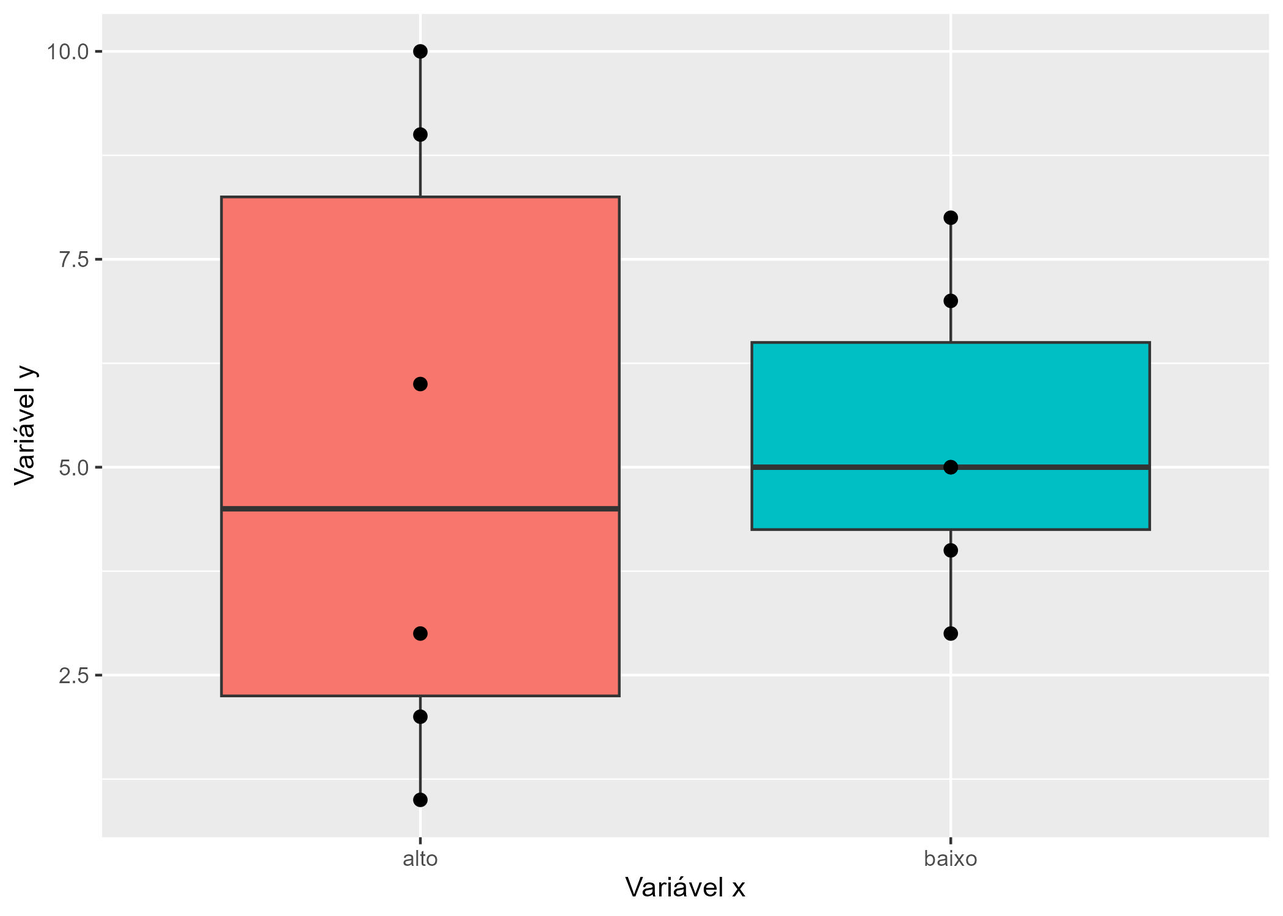
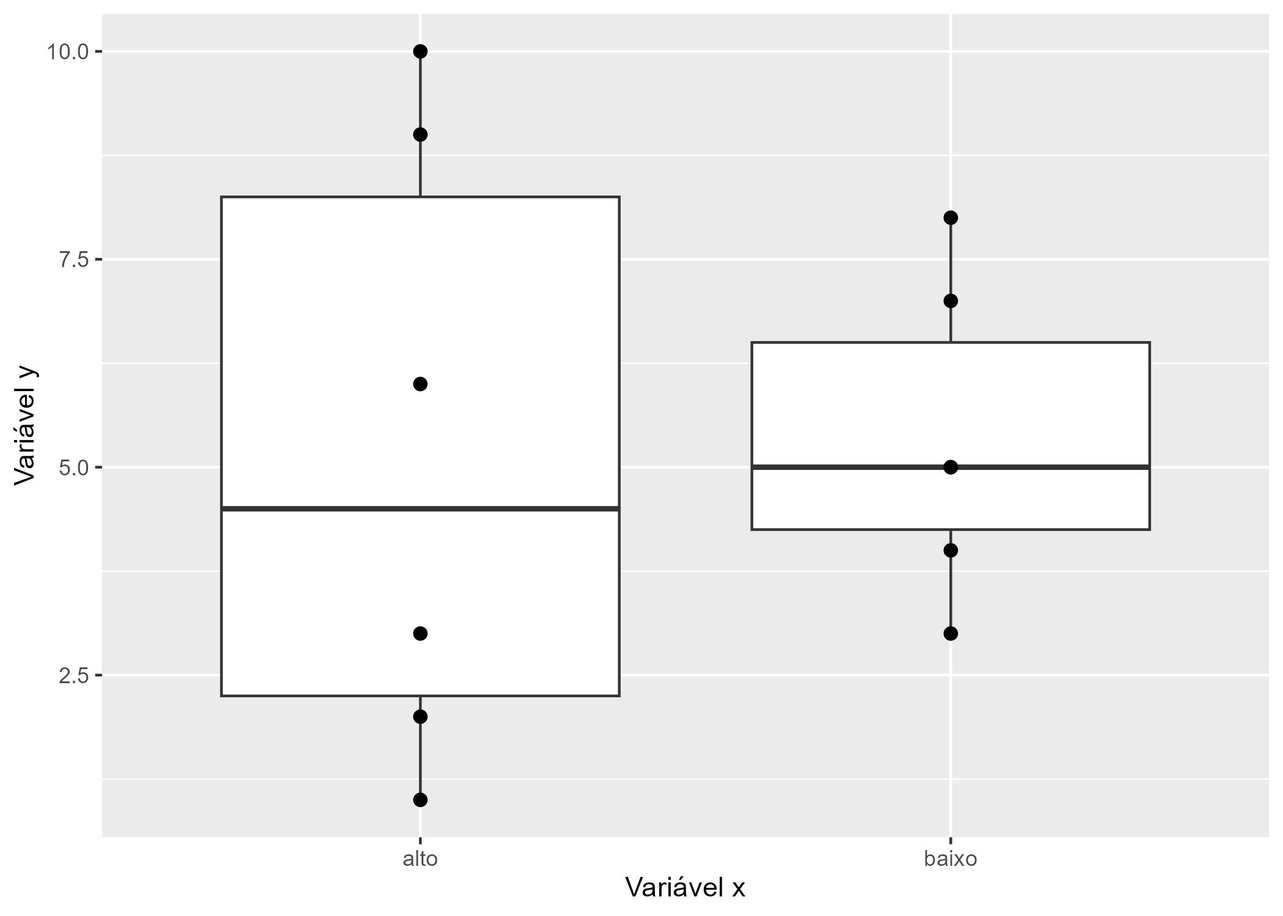
Add files via upload

Changed region(s): [[0.1548, 0.2148, 0.4952, 0.7672], [0.5881, 0.3682, 0.8976, 0.5831]]

diff --git a/docs/posts/2_grafico_de_caixas/index.html b/docs/posts/2_grafico_de_caixas/index.html
@@ -7,7 +7,7 @@
 <meta name="viewport" content="width=device-width, initial-scale=1.0, user-scalable=yes">
 
 <meta name="author" content="Anderson S. Bueno">
-<meta name="dcterms.date" content="2024-01-10">
+<meta name="dcterms.date" content="2024-01-11">
 <meta name="description" content="Crie um gráfico de caixas (boxplot) para ver a relação entre uma variável contínua e uma variável categórica.">
 
 <title>buenoas - Gráfico de caixas</title>
@@ -151,7 +151,7 @@ pre > code.sourceCode > span > a:first-child::before { text-decoration: underlin
       <h1 class="title">Gráfico de caixas</h1>
                   <div>
         <div class="description">
-          Crie um gráfico de caixas (boxplot) para ver a relação entre uma variável contínua e uma variável categórica.
+          Crie um gráfico de caixas (<em>boxplot</em>) para ver a relação entre uma variável contínua e uma variável categórica.
         </div>
       </div>
                           <div class="quarto-categories">
@@ -183,7 +183,7 @@ pre > code.sourceCode > span > a:first-child::before { text-decoration: underlin
       <div>
       <div class="quarto-title-meta-heading">Published</div>
       <div class="quarto-title-meta-contents">
-        <p class="date">January 10, 2024</p>
+        <p class="date">January 11, 2024</p>
       </div>
     </div>
     
@@ -268,28 +268,26 @@ pre > code.sourceCode > span > a:first-child::before { text-decoration: underlin
 <div class="cell">
 <div class="sourceCode cell-code" id="cb4"><pre class="sourceCode r code-with-copy"><code class="sourceCode r"><span id="cb4-1"><a href="#cb4-1" aria-hidden="true" tabindex="-1"></a><span class="co"># Produz o gráfico</span></span>
 <span id="cb4-2"><a href="#cb4-2" aria-hidden="true" tabindex="-1"></a>grafico_caixas <span class="ot">=</span></span>
-<span id="cb4-3"><a href="#cb4-3" aria-hidden="true" tabindex="-1"></a>  <span class="fu">qplot</span>(<span class="at">x =</span> var_x, <span class="at">y =</span> var_y, <span class="at">fill =</span> var_x) <span class="sc">+</span> <span class="co"># fill preenche as caixas com cores</span></span>
-<span id="cb4-4"><a href="#cb4-4" aria-hidden="true" tabindex="-1"></a>  <span class="fu">geom_boxplot</span>()</span></code><button title="Copy to Clipboard" class="code-copy-button"><i class="bi"></i></button></pre></div>
-<div class="cell-output cell-output-stderr">
-<pre><code>Warning: `qplot()` was deprecated in ggplot2 3.4.0.</code></pre>
-</div>
-<div class="sourceCode cell-code" id="cb6"><pre class="sourceCode r code-with-copy"><code class="sourceCode r"><span id="cb6-1"><a href="#cb6-1" aria-hidden="true" tabindex="-1"></a><span class="co"># Visualiza o gráfico produzido</span></span>
-<span id="cb6-2"><a href="#cb6-2" aria-hidden="true" tabindex="-1"></a>grafico_caixas</span></code><button title="Copy to Clipboard" class="code-copy-button"><i class="bi"></i></button></pre></div>
+<span id="cb4-3"><a href="#cb4-3" aria-hidden="true" tabindex="-1"></a>  <span class="fu">qplot</span>(<span class="at">x =</span> var_x, <span class="at">y =</span> var_y) <span class="sc">+</span></span>
+<span id="cb4-4"><a href="#cb4-4" aria-hidden="true" tabindex="-1"></a>  <span class="fu">geom_boxplot</span>()</span>
+<span id="cb4-5"><a href="#cb4-5" aria-hidden="true" tabindex="-1"></a></span>
+<span id="cb4-6"><a href="#cb4-6" aria-hidden="true" tabindex="-1"></a><span class="co"># Visualiza o gráfico produzido</span></span>
+<span id="cb4-7"><a href="#cb4-7" aria-hidden="true" tabindex="-1"></a>grafico_caixas</span></code><button title="Copy to Clipboard" class="code-copy-button"><i class="bi"></i></button></pre></div>
 <div class="cell-output-display">
 <p><img src="index_files/figure-html/unnamed-chunk-5-1.png" class="img-fluid" width="672"></p>
 </div>
 </div>
 <p>Agora vamos personalizar o <code>grafico_caixas</code> (1) alterando o nome dos eixos, (2) aumentando o tamanho dos pontos e (3) removendo a legenda para as cores.</p>
 <div class="cell">
-<div class="sourceCode cell-code" id="cb7"><pre class="sourceCode r code-with-copy"><code class="sourceCode r"><span id="cb7-1"><a href="#cb7-1" aria-hidden="true" tabindex="-1"></a><span class="co"># Personaliza o gráfico</span></span>
-<span id="cb7-2"><a href="#cb7-2" aria-hidden="true" tabindex="-1"></a>grafico_personalizado <span class="ot">=</span> </span>
-<span id="cb7-3"><a href="#cb7-3" aria-hidden="true" tabindex="-1"></a>  grafico_caixas <span class="sc">+</span> <span class="co"># Aproveita o gráfico já produzido</span></span>
-<span id="cb7-4"><a href="#cb7-4" aria-hidden="true" tabindex="-1"></a>  <span class="fu">labs</span>(<span class="at">x =</span> <span class="st">"Variável x"</span>, <span class="at">y =</span> <span class="st">"Variável y"</span>) <span class="sc">+</span> <span class="co"># Altera o nome dos eixos x e y</span></span>
-<span id="cb7-5"><a href="#cb7-5" aria-hidden="true" tabindex="-1"></a>  <span class="fu">geom_point</span>(<span class="at">size =</span> <span class="dv">2</span>) <span class="sc">+</span> <span class="co"># Aumenta o tamanho dos pontos</span></span>
-<span id="cb7-6"><a href="#cb7-6" aria-hidden="true" tabindex="-1"></a>  <span class="fu">theme</span>(<span class="at">legend.position =</span> <span class="st">"none"</span>) <span class="co"># Não mostra a legenda para as cores</span></span>
-<span id="cb7-7"><a href="#cb7-7" aria-hidden="true" tabindex="-1"></a></span>
-<span id="cb7-8"><a href="#cb7-8" aria-hidden="true" tabindex="-1"></a><span class="co"># Visualiza o gráfico personalizado</span></span>
-<span id="cb7-9"><a href="#cb7-9" aria-hidden="true" tabindex="-1"></a>grafico_personalizado</span></code><button title="Copy to Clipboard" class="code-copy-button"><i class="bi"></i></button></pre></div>
+<div class="sourceCode cell-code" id="cb5"><pre class="sourceCode r code-with-copy"><code class="sourceCode r"><span id="cb5-1"><a href="#cb5-1" aria-hidden="true" tabindex="-1"></a><span class="co"># Personaliza o gráfico</span></span>
+<span id="cb5-2"><a href="#cb5-2" aria-hidden="true" tabindex="-1"></a>grafico_personalizado <span class="ot">=</span> </span>
+<span id="cb5-3"><a href="#cb5-3" aria-hidden="true" tabindex="-1"></a>  grafico_caixas <span class="sc">+</span> <span class="co"># Aproveita o gráfico já produzido</span></span>
+<span id="cb5-4"><a href="#cb5-4" aria-hidden="true" tabindex="-1"></a>  <span class="fu">labs</span>(<span class="at">x =</span> <span class="st">"Variável x"</span>, <span class="at">y =</span> <span class="st">"Variável y"</span>) <span class="sc">+</span> <span class="co"># Altera o nome dos eixos x e y</span></span>
+<span id="cb5-5"><a href="#cb5-5" aria-hidden="true" tabindex="-1"></a>  <span class="fu">geom_point</span>(<span class="at">size =</span> <span class="dv">2</span>) <span class="sc">+</span> <span class="co"># Aumenta o tamanho dos pontos</span></span>
+<span id="cb5-6"><a href="#cb5-6" aria-hidden="true" tabindex="-1"></a>  <span class="fu">theme</span>(<span class="at">legend.position =</span> <span class="st">"none"</span>) <span class="co"># Não mostra a legenda para as cores</span></span>
+<span id="cb5-7"><a href="#cb5-7" aria-hidden="true" tabindex="-1"></a></span>
+<span id="cb5-8"><a href="#cb5-8" aria-hidden="true" tabindex="-1"></a><span class="co"># Visualiza o gráfico personalizado</span></span>
+<span id="cb5-9"><a href="#cb5-9" aria-hidden="true" tabindex="-1"></a>grafico_personalizado</span></code><button title="Copy to Clipboard" class="code-copy-button"><i class="bi"></i></button></pre></div>
 <div class="cell-output-display">
 <p><img src="index_files/figure-html/unnamed-chunk-6-1.png" class="img-fluid" width="672"></p>
 </div>
@@ -300,15 +298,15 @@ pre > code.sourceCode > span > a:first-child::before { text-decoration: underlin
 <p>Quando salvamos um objeto produzido no R para fora do R estamos exportando o objeto. Sempre que você exportar gráficos, prefira um formato de imagem vetorial (que nunca distorce), como o PDF.</p>
 <p>Para salvar o gráfico em formato PDF, digite:</p>
 <div class="cell">
-<div class="sourceCode cell-code" id="cb8"><pre class="sourceCode r code-with-copy"><code class="sourceCode r"><span id="cb8-1"><a href="#cb8-1" aria-hidden="true" tabindex="-1"></a><span class="fu">ggsave</span>(grafico_personalizado, <span class="co"># gráfico a ser salvo</span></span>
-<span id="cb8-2"><a href="#cb8-2" aria-hidden="true" tabindex="-1"></a>       <span class="at">filename =</span> <span class="st">"graficoR.jpg"</span>) <span class="co"># nome escolhido para o arquivo</span></span></code><button title="Copy to Clipboard" class="code-copy-button"><i class="bi"></i></button></pre></div>
+<div class="sourceCode cell-code" id="cb6"><pre class="sourceCode r code-with-copy"><code class="sourceCode r"><span id="cb6-1"><a href="#cb6-1" aria-hidden="true" tabindex="-1"></a><span class="fu">ggsave</span>(grafico_personalizado, <span class="co"># gráfico a ser salvo</span></span>
+<span id="cb6-2"><a href="#cb6-2" aria-hidden="true" tabindex="-1"></a>       <span class="at">filename =</span> <span class="st">"graficoR.jpg"</span>) <span class="co"># nome escolhido para o arquivo</span></span></code><button title="Copy to Clipboard" class="code-copy-button"><i class="bi"></i></button></pre></div>
 <div class="cell-output cell-output-stderr">
 <pre><code>Saving 7 x 5 in image</code></pre>
 </div>
 </div>
 <p>Para descobrir onde o gráfico foi salvo, digite:</p>
 <div class="cell">
-<div class="sourceCode cell-code" id="cb10"><pre class="sourceCode r code-with-copy"><code class="sourceCode r"><span id="cb10-1"><a href="#cb10-1" aria-hidden="true" tabindex="-1"></a><span class="fu">getwd</span>()</span></code><button title="Copy to Clipboard" class="code-copy-button"><i class="bi"></i></button></pre></div>
+<div class="sourceCode cell-code" id="cb8"><pre class="sourceCode r code-with-copy"><code class="sourceCode r"><span id="cb8-1"><a href="#cb8-1" aria-hidden="true" tabindex="-1"></a><span class="fu">getwd</span>()</span></code><button title="Copy to Clipboard" class="code-copy-button"><i class="bi"></i></button></pre></div>
 </div>
 </section>
 </section>
@@ -316,27 +314,27 @@ pre > code.sourceCode > span > a:first-child::before { text-decoration: underlin
 <h1>Código completo</h1>
 <p>Para você apertar <code>Ctrl+C</code> e <code>Ctrl+V</code>.</p>
 <div class="cell">
-<div class="sourceCode cell-code" id="cb11"><pre class="sourceCode r code-with-copy"><code class="sourceCode r"><span id="cb11-1"><a href="#cb11-1" aria-hidden="true" tabindex="-1"></a><span class="co">#install.packages("ggplot2")</span></span>
-<span id="cb11-2"><a href="#cb11-2" aria-hidden="true" tabindex="-1"></a><span class="fu">library</span>(ggplot2)</span>
-<span id="cb11-3"><a href="#cb11-3" aria-hidden="true" tabindex="-1"></a></span>
-<span id="cb11-4"><a href="#cb11-4" aria-hidden="true" tabindex="-1"></a>var_x <span class="ot">=</span> <span class="fu">c</span>(<span class="st">"alto"</span>, <span class="st">"alto"</span>, <span class="st">"alto"</span>, <span class="st">"alto"</span>, <span class="st">"alto"</span>, <span class="st">"alto"</span>,</span>
-<span id="cb11-5"><a href="#cb11-5" aria-hidden="true" tabindex="-1"></a>          <span class="st">"baixo"</span>, <span class="st">"baixo"</span>, <span class="st">"baixo"</span>, <span class="st">"baixo"</span>, <span class="st">"baixo"</span>, <span class="st">"baixo"</span>)</span>
-<span id="cb11-6"><a href="#cb11-6" aria-hidden="true" tabindex="-1"></a>var_y <span class="ot">=</span> <span class="fu">c</span>(<span class="dv">2</span>, <span class="dv">9</span>, <span class="dv">1</span>, <span class="dv">6</span>, <span class="dv">10</span>, <span class="dv">3</span>, <span class="dv">5</span>, <span class="dv">7</span>, <span class="dv">4</span>, <span class="dv">8</span>, <span class="dv">3</span>, <span class="dv">5</span>)</span>
-<span id="cb11-7"><a href="#cb11-7" aria-hidden="true" tabindex="-1"></a></span>
-<span id="cb11-8"><a href="#cb11-8" aria-hidden="true" tabindex="-1"></a>grafico_caixas <span class="ot">=</span></span>
-<span id="cb11-9"><a href="#cb11-9" aria-hidden="true" tabindex="-1"></a>  <span class="fu">qplot</span>(<span class="at">x =</span> var_x, <span class="at">y =</span> var_y, <span class="at">fill =</span> var_x)</span>
-<span id="cb11-10"><a href="#cb11-10" aria-hidden="true" tabindex="-1"></a>  <span class="fu">geom_boxplot</span>()</span>
-<span id="cb11-11"><a href="#cb11-11" aria-hidden="true" tabindex="-1"></a>  </span>
-<span id="cb11-12"><a href="#cb11-12" aria-hidden="true" tabindex="-1"></a>grafico_personalizado <span class="ot">=</span> </span>
-<span id="cb11-13"><a href="#cb11-13" aria-hidden="true" tabindex="-1"></a>  grafico_caixas <span class="sc">+</span></span>
-<span id="cb11-14"><a href="#cb11-14" aria-hidden="true" tabindex="-1"></a>  <span class="fu">labs</span>(<span class="at">x =</span> <span class="st">"Variável x"</span>, <span class="at">y =</span> <span class="st">"Variável y"</span>) <span class="sc">+</span></span>
-<span id="cb11-15"><a href="#cb11-15" aria-hidden="true" tabindex="-1"></a>  <span class="fu">geom_point</span>(<span class="at">size =</span> <span class="dv">2</span>) <span class="sc">+</span></span>
-<span id="cb11-16"><a href="#cb11-16" aria-hidden="true" tabindex="-1"></a>  <span class="fu">theme</span>(<span class="at">legend.position =</span> <span class="st">"none"</span>)</span>
-<span id="cb11-17"><a href="#cb11-17" aria-hidden="true" tabindex="-1"></a></span>
-<span id="cb11-18"><a href="#cb11-18" aria-hidden="true" tabindex="-1"></a><span class="fu">ggsave</span>(grafico_personalizado,</span>
-<span id="cb11-19"><a href="#cb11-19" aria-hidden="true" tabindex="-1"></a>       <span class="at">filename =</span> <span class="st">"graficoR.jpg"</span>)</span>
-<span id="cb11-20"><a href="#cb11-20" aria-hidden="true" tabindex="-1"></a></span>
-<span id="cb11-21"><a href="#cb11-21" aria-hidden="true" tabindex="-1"></a><span class="fu">getwd</span>()</span></code><button title="Copy to Clipboard" class="code-copy-button"><i class="bi"></i></button></pre></div>
+<div class="sourceCode cell-code" id="cb9"><pre class="sourceCode r code-with-copy"><code class="sourceCode r"><span id="cb9-1"><a href="#cb9-1" aria-hidden="true" tabindex="-1"></a><span class="co">#install.packages("ggplot2")</span></span>
+<span id="cb9-2"><a href="#cb9-2" aria-hidden="true" tabindex="-1"></a><span class="fu">library</span>(ggplot2)</span>
+<span id="cb9-3"><a href="#cb9-3" aria-hidden="true" tabindex="-1"></a></span>
+<span id="cb9-4"><a href="#cb9-4" aria-hidden="true" tabindex="-1"></a>var_x <span class="ot">=</span> <span class="fu">c</span>(<span class="st">"alto"</span>, <span class="st">"alto"</span>, <span class="st">"alto"</span>, <span class="st">"alto"</span>, <span class="st">"alto"</span>, <span class="st">"alto"</span>,</span>
+<span id="cb9-5"><a href="#cb9-5" aria-hidden="true" tabindex="-1"></a>          <span class="st">"baixo"</span>, <span class="st">"baixo"</span>, <span class="st">"baixo"</span>, <span class="st">"baixo"</span>, <span class="st">"baixo"</span>, <span class="st">"baixo"</span>)</span>
+<span id="cb9-6"><a href="#cb9-6" aria-hidden="true" tabindex="-1"></a>var_y <span class="ot">=</span> <span class="fu">c</span>(<span class="dv">2</span>, <span class="dv">9</span>, <span class="dv">1</span>, <span class="dv">6</span>, <span class="dv">10</span>, <span class="dv">3</span>, <span class="dv">5</span>, <span class="dv">7</span>, <span class="dv">4</span>, <span class="dv">8</span>, <span class="dv">3</span>, <span class="dv">5</span>)</span>
+<span id="cb9-7"><a href="#cb9-7" aria-hidden="true" tabindex="-1"></a></span>
+<span id="cb9-8"><a href="#cb9-8" aria-hidden="true" tabindex="-1"></a>grafico_caixas <span class="ot">=</span></span>
+<span id="cb9-9"><a href="#cb9-9" aria-hidden="true" tabindex="-1"></a>  <span class="fu">qplot</span>(<span class="at">x =</span> var_x, <span class="at">y =</span> var_y, <span class="at">fill =</span> var_x)</span>
+<span id="cb9-10"><a href="#cb9-10" aria-hidden="true" tabindex="-1"></a>  <span class="fu">geom_boxplot</span>()</span>
+<span id="cb9-11"><a href="#cb9-11" aria-hidden="true" tabindex="-1"></a>  </span>
+<span id="cb9-12"><a href="#cb9-12" aria-hidden="true" tabindex="-1"></a>grafico_personalizado <span class="ot">=</span> </span>
+<span id="cb9-13"><a href="#cb9-13" aria-hidden="true" tabindex="-1"></a>  grafico_caixas <span class="sc">+</span></span>
+<span id="cb9-14"><a href="#cb9-14" aria-hidden="true" tabindex="-1"></a>  <span class="fu">labs</span>(<span class="at">x =</span> <span class="st">"Variável x"</span>, <span class="at">y =</span> <span class="st">"Variável y"</span>) <span class="sc">+</span></span>
+<span id="cb9-15"><a href="#cb9-15" aria-hidden="true" tabindex="-1"></a>  <span class="fu">geom_point</span>(<span class="at">size =</span> <span class="dv">2</span>) <span class="sc">+</span></span>
+<span id="cb9-16"><a href="#cb9-16" aria-hidden="true" tabindex="-1"></a>  <span class="fu">theme</span>(<span class="at">legend.position =</span> <span class="st">"none"</span>)</span>
+<span id="cb9-17"><a href="#cb9-17" aria-hidden="true" tabindex="-1"></a></span>
+<span id="cb9-18"><a href="#cb9-18" aria-hidden="true" tabindex="-1"></a><span class="fu">ggsave</span>(grafico_personalizado,</span>
+<span id="cb9-19"><a href="#cb9-19" aria-hidden="true" tabindex="-1"></a>       <span class="at">filename =</span> <span class="st">"graficoR.jpg"</span>)</span>
+<span id="cb9-20"><a href="#cb9-20" aria-hidden="true" tabindex="-1"></a></span>
+<span id="cb9-21"><a href="#cb9-21" aria-hidden="true" tabindex="-1"></a><span class="fu">getwd</span>()</span></code><button title="Copy to Clipboard" class="code-copy-button"><i class="bi"></i></button></pre></div>
 </div>
 </section>
 <section id="fim" class="level1">
@@ -348,12 +346,12 @@ pre > code.sourceCode > span > a:first-child::before { text-decoration: underlin
 <div id="quarto-appendix" class="default"><section class="quarto-appendix-contents"><h2 class="anchored quarto-appendix-heading">Citation</h2><div><div class="quarto-appendix-secondary-label">BibTeX citation:</div><pre class="sourceCode code-with-copy quarto-appendix-bibtex"><code class="sourceCode bibtex">@online{s. bueno2024,
   author = {S. Bueno, Anderson},
   title = {Gráfico de Caixas},
-  date = {2024-01-10},
+  date = {2024-01-11},
   url = {https://buenoas.github.io/posts/1_grafico_de_pontos},
   langid = {en}
 }
 </code><button title="Copy to Clipboard" class="code-copy-button"><i class="bi"></i></button></pre><div class="quarto-appendix-secondary-label">For attribution, please cite this work as:</div><div id="ref-s. bueno2024" class="csl-entry quarto-appendix-citeas" role="listitem">
-S. Bueno, Anderson. 2024. <span>“Gráfico de Caixas.”</span> January 10,
+S. Bueno, Anderson. 2024. <span>“Gráfico de Caixas.”</span> January 11,
 2024. <a href="https://buenoas.github.io/posts/1_grafico_de_pontos">https://buenoas.github.io/posts/1_grafico_de_pontos</a>.
 </div></div></section></div></main> <!-- /main -->
 <script id="quarto-html-after-body" type="application/javascript">

diff --git a/docs/posts/1_grafico_de_pontos/index.html b/docs/posts/1_grafico_de_pontos/index.html
@@ -7,8 +7,8 @@
 <meta name="viewport" content="width=device-width, initial-scale=1.0, user-scalable=yes">
 
 <meta name="author" content="Anderson S. Bueno">
-<meta name="dcterms.date" content="2024-01-10">
-<meta name="description" content="Crie um gráfico de pontos (scatterplot) para ver a relação entre duas variáveis contínuas">
+<meta name="dcterms.date" content="2024-01-11">
+<meta name="description" content="Crie um gráfico de pontos (scatterplot) para ver a relação entre duas variáveis contínuas.">
 
 <title>buenoas - Gráfico de pontos</title>
 <style>
@@ -151,7 +151,7 @@ pre > code.sourceCode > span > a:first-child::before { text-decoration: underlin
       <h1 class="title">Gráfico de pontos</h1>
                   <div>
         <div class="description">
-          Crie um gráfico de pontos (scatterplot) para ver a relação entre duas variáveis contínuas
+          Crie um gráfico de pontos (<em>scatterplot</em>) para ver a relação entre duas variáveis contínuas.
         </div>
       </div>
                           <div class="quarto-categories">
@@ -183,7 +183,7 @@ pre > code.sourceCode > span > a:first-child::before { text-decoration: underlin
       <div>
       <div class="quarto-title-meta-heading">Published</div>
       <div class="quarto-title-meta-contents">
-        <p class="date">January 10, 2024</p>
+        <p class="date">January 11, 2024</p>
       </div>
     </div>
     
@@ -267,26 +267,24 @@ pre > code.sourceCode > span > a:first-child::before { text-decoration: underlin
 <div class="cell">
 <div class="sourceCode cell-code" id="cb4"><pre class="sourceCode r code-with-copy"><code class="sourceCode r"><span id="cb4-1"><a href="#cb4-1" aria-hidden="true" tabindex="-1"></a><span class="co"># Produz o gráfico</span></span>
 <span id="cb4-2"><a href="#cb4-2" aria-hidden="true" tabindex="-1"></a>grafico_pontos <span class="ot">=</span></span>
-<span id="cb4-3"><a href="#cb4-3" aria-hidden="true" tabindex="-1"></a>  <span class="fu">qplot</span>(<span class="at">x =</span> var_x, <span class="at">y =</span> var_y)</span></code><button title="Copy to Clipboard" class="code-copy-button"><i class="bi"></i></button></pre></div>
-<div class="cell-output cell-output-stderr">
-<pre><code>Warning: `qplot()` was deprecated in ggplot2 3.4.0.</code></pre>
-</div>
-<div class="sourceCode cell-code" id="cb6"><pre class="sourceCode r code-with-copy"><code class="sourceCode r"><span id="cb6-1"><a href="#cb6-1" aria-hidden="true" tabindex="-1"></a><span class="co"># Visualiza o gráfico produzido</span></span>
-<span id="cb6-2"><a href="#cb6-2" aria-hidden="true" tabindex="-1"></a>grafico_pontos</span></code><button title="Copy to Clipboard" class="code-copy-button"><i class="bi"></i></button></pre></div>
+<span id="cb4-3"><a href="#cb4-3" aria-hidden="true" tabindex="-1"></a>  <span class="fu">qplot</span>(<span class="at">x =</span> var_x, <span class="at">y =</span> var_y)</span>
+<span id="cb4-4"><a href="#cb4-4" aria-hidden="true" tabindex="-1"></a></span>
+<span id="cb4-5"><a href="#cb4-5" aria-hidden="true" tabindex="-1"></a><span class="co"># Visualiza o gráfico produzido</span></span>
+<span id="cb4-6"><a href="#cb4-6" aria-hidden="true" tabindex="-1"></a>grafico_pontos</span></code><button title="Copy to Clipboard" class="code-copy-button"><i class="bi"></i></button></pre></div>
 <div class="cell-output-display">
 <p><img src="index_files/figure-html/unnamed-chunk-5-1.png" class="img-fluid" width="672"></p>
 </div>
 </div>
 <p>Agora vamos personalizar o <code>grafico_pontos</code> (1) alterando o nome dos eixos e (2) aumentando o tamanho dos pontos.</p>
 <div class="cell">
-<div class="sourceCode cell-code" id="cb7"><pre class="sourceCode r code-with-copy"><code class="sourceCode r"><span id="cb7-1"><a href="#cb7-1" aria-hidden="true" tabindex="-1"></a><span class="co"># Personaliza o gráfico</span></span>
-<span id="cb7-2"><a href="#cb7-2" aria-hidden="true" tabindex="-1"></a>grafico_personalizado <span class="ot">=</span> </span>
-<span id="cb7-3"><a href="#cb7-3" aria-hidden="true" tabindex="-1"></a>  grafico_pontos <span class="sc">+</span> <span class="co"># Aproveita o gráfico já produzido</span></span>
-<span id="cb7-4"><a href="#cb7-4" aria-hidden="true" tabindex="-1"></a>  <span class="fu">labs</span>(<span class="at">x =</span> <span class="st">"Variável x"</span>, <span class="at">y =</span> <span class="st">"Variável y"</span>) <span class="sc">+</span> <span class="co"># Altera o nome dos eixos x e y</span></span>
-<span id="cb7-5"><a href="#cb7-5" aria-hidden="true" tabindex="-1"></a>  <span class="fu">geom_point</span>(<span class="at">size =</span> <span class="dv">3</span>) <span class="co"># Aumenta o tamanho dos pontos</span></span>
-<span id="cb7-6"><a href="#cb7-6" aria-hidden="true" tabindex="-1"></a></span>
-<span id="cb7-7"><a href="#cb7-7" aria-hidden="true" tabindex="-1"></a><span class="co"># Visualiza o gráfico personalizado</span></span>
-<span id="cb7-8"><a href="#cb7-8" aria-hidden="true" tabindex="-1"></a>grafico_personalizado</span></code><button title="Copy to Clipboard" class="code-copy-button"><i class="bi"></i></button></pre></div>
+<div class="sourceCode cell-code" id="cb5"><pre class="sourceCode r code-with-copy"><code class="sourceCode r"><span id="cb5-1"><a href="#cb5-1" aria-hidden="true" tabindex="-1"></a><span class="co"># Personaliza o gráfico</span></span>
+<span id="cb5-2"><a href="#cb5-2" aria-hidden="true" tabindex="-1"></a>grafico_personalizado <span class="ot">=</span> </span>
+<span id="cb5-3"><a href="#cb5-3" aria-hidden="true" tabindex="-1"></a>  grafico_pontos <span class="sc">+</span> <span class="co"># Aproveita o gráfico já produzido</span></span>
+<span id="cb5-4"><a href="#cb5-4" aria-hidden="true" tabindex="-1"></a>  <span class="fu">labs</span>(<span class="at">x =</span> <span class="st">"Variável x"</span>, <span class="at">y =</span> <span class="st">"Variável y"</span>) <span class="sc">+</span> <span class="co"># Altera o nome dos eixos x e y</span></span>
+<span id="cb5-5"><a href="#cb5-5" aria-hidden="true" tabindex="-1"></a>  <span class="fu">geom_point</span>(<span class="at">size =</span> <span class="dv">3</span>) <span class="co"># Aumenta o tamanho dos pontos</span></span>
+<span id="cb5-6"><a href="#cb5-6" aria-hidden="true" tabindex="-1"></a></span>
+<span id="cb5-7"><a href="#cb5-7" aria-hidden="true" tabindex="-1"></a><span class="co"># Visualiza o gráfico personalizado</span></span>
+<span id="cb5-8"><a href="#cb5-8" aria-hidden="true" tabindex="-1"></a>grafico_personalizado</span></code><button title="Copy to Clipboard" class="code-copy-button"><i class="bi"></i></button></pre></div>
 <div class="cell-output-display">
 <p><img src="index_files/figure-html/unnamed-chunk-6-1.png" class="img-fluid" width="672"></p>
 </div>
@@ -297,15 +295,15 @@ pre > code.sourceCode > span > a:first-child::before { text-decoration: underlin
 <p>Quando salvamos um objeto produzido no R para fora do R estamos exportando o objeto. Sempre que você exportar gráficos, prefira um formato de imagem vetorial (que nunca distorce), como o PDF.</p>
 <p>Para salvar o gráfico em formato PDF, digite:</p>
 <div class="cell">
-<div class="sourceCode cell-code" id="cb8"><pre class="sourceCode r code-with-copy"><code class="sourceCode r"><span id="cb8-1"><a href="#cb8-1" aria-hidden="true" tabindex="-1"></a><span class="fu">ggsave</span>(grafico_personalizado, <span class="co"># gráfico a ser salvo</span></span>
-<span id="cb8-2"><a href="#cb8-2" aria-hidden="true" tabindex="-1"></a>       <span class="at">filename =</span> <span class="st">"graficoR.jpg"</span>) <span class="co"># nome escolhido para o arquivo</span></span></code><button title="Copy to Clipboard" class="code-copy-button"><i class="bi"></i></button></pre></div>
+<div class="sourceCode cell-code" id="cb6"><pre class="sourceCode r code-with-copy"><code class="sourceCode r"><span id="cb6-1"><a href="#cb6-1" aria-hidden="true" tabindex="-1"></a><span class="fu">ggsave</span>(grafico_personalizado, <span class="co"># gráfico a ser salvo</span></span>
+<span id="cb6-2"><a href="#cb6-2" aria-hidden="true" tabindex="-1"></a>       <span class="at">filename =</span> <span class="st">"graficoR.jpg"</span>) <span class="co"># nome escolhido para o arquivo</span></span></code><button title="Copy to Clipboard" class="code-copy-button"><i class="bi"></i></button></pre></div>
 <div class="cell-output cell-output-stderr">
 <pre><code>Saving 7 x 5 in image</code></pre>
 </div>
 </div>
 <p>Para descobrir onde o gráfico foi salvo, digite:</p>
 <div class="cell">
-<div class="sourceCode cell-code" id="cb10"><pre class="sourceCode r code-with-copy"><code class="sourceCode r"><span id="cb10-1"><a href="#cb10-1" aria-hidden="true" tabindex="-1"></a><span class="fu">getwd</span>()</span></code><button title="Copy to Clipboard" class="code-copy-button"><i class="bi"></i></button></pre></div>
+<div class="sourceCode cell-code" id="cb8"><pre class="sourceCode r code-with-copy"><code class="sourceCode r"><span id="cb8-1"><a href="#cb8-1" aria-hidden="true" tabindex="-1"></a><span class="fu">getwd</span>()</span></code><button title="Copy to Clipboard" class="code-copy-button"><i class="bi"></i></button></pre></div>
 </div>
 </section>
 </section>
@@ -313,23 +311,23 @@ pre > code.sourceCode > span > a:first-child::before { text-decoration: underlin
 <h1>Código completo</h1>
 <p>Para você apertar <code>Ctrl+C</code> e <code>Ctrl+V</code>.</p>
 <div class="cell">
-<div class="sourceCode cell-code" id="cb11"><pre class="sourceCode r code-with-copy"><code class="sourceCode r"><span id="cb11-1"><a href="#cb11-1" aria-hidden="true" tabindex="-1"></a><span class="co">#install.packages("ggplot2")</span></span>
-<span id="cb11-2"><a href="#cb11-2" aria-hidden="true" tabindex="-1"></a><span class="fu">library</span>(ggplot2)</span>
-<span id="cb11-3"><a href="#cb11-3" aria-hidden="true" tabindex="-1"></a></span>
-<span id="cb11-4"><a href="#cb11-4" aria-hidden="true" tabindex="-1"></a>var_x <span class="ot">=</span> <span class="fu">c</span>(<span class="dv">8</span>, <span class="dv">5</span>, <span class="dv">2</span>, <span class="dv">1</span>, <span class="dv">4</span>, <span class="dv">6</span>, <span class="dv">10</span>, <span class="dv">7</span>, <span class="dv">9</span>, <span class="dv">3</span>)</span>
-<span id="cb11-5"><a href="#cb11-5" aria-hidden="true" tabindex="-1"></a>var_y <span class="ot">=</span> <span class="fu">c</span>(<span class="dv">2</span>, <span class="dv">9</span>, <span class="dv">1</span>, <span class="dv">6</span>, <span class="dv">10</span>, <span class="dv">3</span>, <span class="dv">5</span>, <span class="dv">7</span>, <span class="dv">4</span>, <span class="dv">8</span>)</span>
-<span id="cb11-6"><a href="#cb11-6" aria-hidden="true" tabindex="-1"></a></span>
-<span id="cb11-7"><a href="#cb11-7" aria-hidden="true" tabindex="-1"></a>grafico_pontos <span class="ot">=</span></span>
-<span id="cb11-8"><a href="#cb11-8" aria-hidden="true" tabindex="-1"></a>  <span class="fu">qplot</span>(<span class="at">x =</span> var_x, <span class="at">y =</span> var_y)</span>
-<span id="cb11-9"><a href="#cb11-9" aria-hidden="true" tabindex="-1"></a>  </span>
-<span id="cb11-10"><a href="#cb11-10" aria-hidden="true" tabindex="-1"></a>grafico_personalizado <span class="ot">=</span> </span>
-<span id="cb11-11"><a href="#cb11-11" aria-hidden="true" tabindex="-1"></a>  grafico_pontos <span class="sc">+</span></span>
-<span id="cb11-12"><a href="#cb11-12" aria-hidden="true" tabindex="-1"></a>  <span class="fu">labs</span>(<span class="at">x =</span> <span class="st">"Variável x"</span>, <span class="at">y =</span> <span class="st">"Variável y"</span>) <span class="sc">+</span></span>
-<span id="cb11-13"><a href="#cb11-13" aria-hidden="true" tabindex="-1"></a>  <span class="fu">geom_point</span>(<span class="at">size =</span> <span class="dv">3</span>)</span>
-<span id="cb11-14"><a href="#cb11-14" aria-hidden="true" tabindex="-1"></a></span>
-<span id="cb11-15"><a href="#cb11-15" aria-hidden="true" tabindex="-1"></a>grafico_personalizado</span>
-<span id="cb11-16"><a href="#cb11-16" aria-hidden="true" tabindex="-1"></a></span>
-<span id="cb11-17"><a href="#cb11-17" aria-hidden="true" tabindex="-1"></a><span class="fu">getwd</span>()</span></code><button title="Copy to Clipboard" class="code-copy-button"><i class="bi"></i></button></pre></div>
+<div class="sourceCode cell-code" id="cb9"><pre class="sourceCode r code-with-copy"><code class="sourceCode r"><span id="cb9-1"><a href="#cb9-1" aria-hidden="true" tabindex="-1"></a><span class="co">#install.packages("ggplot2")</span></span>
+<span id="cb9-2"><a href="#cb9-2" aria-hidden="true" tabindex="-1"></a><span class="fu">library</span>(ggplot2)</span>
+<span id="cb9-3"><a href="#cb9-3" aria-hidden="true" tabindex="-1"></a></span>
+<span id="cb9-4"><a href="#cb9-4" aria-hidden="true" tabindex="-1"></a>var_x <span class="ot">=</span> <span class="fu">c</span>(<span class="dv">8</span>, <span class="dv">5</span>, <span class="dv">2</span>, <span class="dv">1</span>, <span class="dv">4</span>, <span class="dv">6</span>, <span class="dv">10</span>, <span class="dv">7</span>, <span class="dv">9</span>, <span class="dv">3</span>)</span>
+<span id="cb9-5"><a href="#cb9-5" aria-hidden="true" tabindex="-1"></a>var_y <span class="ot">=</span> <span class="fu">c</span>(<span class="dv">2</span>, <span class="dv">9</span>, <span class="dv">1</span>, <span class="dv">6</span>, <span class="dv">10</span>, <span class="dv">3</span>, <span class="dv">5</span>, <span class="dv">7</span>, <span class="dv">4</span>, <span class="dv">8</span>)</span>
+<span id="cb9-6"><a href="#cb9-6" aria-hidden="true" tabindex="-1"></a></span>
+<span id="cb9-7"><a href="#cb9-7" aria-hidden="true" tabindex="-1"></a>grafico_pontos <span class="ot">=</span></span>
+<span id="cb9-8"><a href="#cb9-8" aria-hidden="true" tabindex="-1"></a>  <span class="fu">qplot</span>(<span class="at">x =</span> var_x, <span class="at">y =</span> var_y)</span>
+<span id="cb9-9"><a href="#cb9-9" aria-hidden="true" tabindex="-1"></a>  </span>
+<span id="cb9-10"><a href="#cb9-10" aria-hidden="true" tabindex="-1"></a>grafico_personalizado <span class="ot">=</span> </span>
+<span id="cb9-11"><a href="#cb9-11" aria-hidden="true" tabindex="-1"></a>  grafico_pontos <span class="sc">+</span></span>
+<span id="cb9-12"><a href="#cb9-12" aria-hidden="true" tabindex="-1"></a>  <span class="fu">labs</span>(<span class="at">x =</span> <span class="st">"Variável x"</span>, <span class="at">y =</span> <span class="st">"Variável y"</span>) <span class="sc">+</span></span>
+<span id="cb9-13"><a href="#cb9-13" aria-hidden="true" tabindex="-1"></a>  <span class="fu">geom_point</span>(<span class="at">size =</span> <span class="dv">3</span>)</span>
+<span id="cb9-14"><a href="#cb9-14" aria-hidden="true" tabindex="-1"></a></span>
+<span id="cb9-15"><a href="#cb9-15" aria-hidden="true" tabindex="-1"></a>grafico_personalizado</span>
+<span id="cb9-16"><a href="#cb9-16" aria-hidden="true" tabindex="-1"></a></span>
+<span id="cb9-17"><a href="#cb9-17" aria-hidden="true" tabindex="-1"></a><span class="fu">getwd</span>()</span></code><button title="Copy to Clipboard" class="code-copy-button"><i class="bi"></i></button></pre></div>
 </div>
 </section>
 <section id="fim" class="level1">
@@ -341,12 +339,12 @@ pre > code.sourceCode > span > a:first-child::before { text-decoration: underlin
 <div id="quarto-appendix" class="default"><section class="quarto-appendix-contents"><h2 class="anchored quarto-appendix-heading">Citation</h2><div><div class="quarto-appendix-secondary-label">BibTeX citation:</div><pre class="sourceCode code-with-copy quarto-appendix-bibtex"><code class="sourceCode bibtex">@online{s. bueno2024,
   author = {S. Bueno, Anderson},
   title = {Gráfico de Pontos},
-  date = {2024-01-10},
+  date = {2024-01-11},
   url = {https://buenoas.github.io/posts/1_grafico_de_pontos},
   langid = {en}
 }
 </code><button title="Copy to Clipboard" class="code-copy-button"><i class="bi"></i></button></pre><div class="quarto-appendix-secondary-label">For attribution, please cite this work as:</div><div id="ref-s. bueno2024" class="csl-entry quarto-appendix-citeas" role="listitem">
-S. Bueno, Anderson. 2024. <span>“Gráfico de Pontos.”</span> January 10,
+S. Bueno, Anderson. 2024. <span>“Gráfico de Pontos.”</span> January 11,
 2024. <a href="https://buenoas.github.io/posts/1_grafico_de_pontos">https://buenoas.github.io/posts/1_grafico_de_pontos</a>.
 </div></div></section></div></main> <!-- /main -->
 <script id="quarto-html-after-body" type="application/javascript">

diff --git a/docs/posts.html b/docs/posts.html
@@ -193,7 +193,7 @@ ul.task-list li input[type="checkbox"] {
 
 <div class="quarto-listing quarto-listing-container-default" id="listing-listing">
 <div class="list quarto-listing-default">
-<div class="quarto-post image-right" data-index="0" data-categories="R,Gráficos" data-listing-date-sort="1704855600000" data-listing-file-modified-sort="1704896181691" data-listing-date-modified-sort="NaN" data-listing-reading-time-sort="3">
+<div class="quarto-post image-right" data-index="0" data-categories="R,Gráficos" data-listing-date-sort="1704942000000" data-listing-file-modified-sort="1705023760217" data-listing-date-modified-sort="NaN" data-listing-reading-time-sort="3">
 <div class="thumbnail">
 <p><a href="./posts/1_grafico_de_pontos/index.html"> <img src="./posts/1_grafico_de_pontos/graficoR.jpg" class="thumbnail-image"> </a></p>
 </div>
@@ -216,14 +216,14 @@ Gráficos
 </div>
 <a href="./posts/1_grafico_de_pontos/index.html">
 <div class="listing-description">
-<p>Crie um gráfico de pontos (scatterplot) para ver a relação entre duas variáveis contínuas</p>
+<p>Crie um gráfico de pontos (<em>scatterplot</em>) para ver a relação entre duas variáveis contínuas.</p>
 </div>
 </a>
 </div>
 <div class="metadata">
 <a href="./posts/1_grafico_de_pontos/index.html">
 <div class="listing-date">
-Jan 10, 2024
+Jan 11, 2024
 </div>
 <div class="listing-author">
 Anderson S. Bueno
@@ -231,7 +231,7 @@ Anderson S. Bueno
 </a>
 </div>
 </div>
-<div class="quarto-post image-right" data-index="1" data-categories="R,Gráficos" data-listing-date-sort="1704855600000" data-listing-file-modified-sort="1704898367851" data-listing-date-modified-sort="NaN" data-listing-reading-time-sort="4">
+<div class="quarto-post image-right" data-index="1" data-categories="R,Gráficos" data-listing-date-sort="1704942000000" data-listing-file-modified-sort="1705023770041" data-listing-date-modified-sort="NaN" data-listing-reading-time-sort="4">
 <div class="thumbnail">
 <p><a href="./posts/2_grafico_de_caixas/index.html"> <img src="./posts/2_grafico_de_caixas/graficoR.jpg" class="thumbnail-image"> </a></p>
 </div>
@@ -254,14 +254,14 @@ Gráficos
 </div>
 <a href="./posts/2_grafico_de_caixas/index.html">
 <div class="listing-description">
-<p>Crie um gráfico de caixas (boxplot) para ver a relação entre uma variável contínua e uma variável categórica.</p>
+<p>Crie um gráfico de caixas (<em>boxplot</em>) para ver a relação entre uma variável contínua e uma variável categórica.</p>
 </div>
 </a>
 </div>
 <div class="metadata">
 <a href="./posts/2_grafico_de_caixas/index.html">
 <div class="listing-date">
-Jan 10, 2024
+Jan 11, 2024
 </div>
 <div class="listing-author">
 Anderson S. Bueno

diff --git a/docs/apps.html b/docs/apps.html
@@ -143,12 +143,13 @@ ul.task-list li input[type="checkbox"] {
 <p>Nesta página estão disponíveis aplicativos – <em>Shiny apps</em> – desenvolvidos para auxliar no ensino de Ecologia.</p>
 <section id="calculadora-de-biodiversidade" class="level2">
 <h2 class="anchored" data-anchor-id="calculadora-de-biodiversidade">Calculadora de Biodiversidade</h2>
-<p>Este aplicativo calcula cinco métricas de biodiversidade:</p>
+<p>Este aplicativo calcula seis métricas de biodiversidade:</p>
 <p>1) Riqueza de espécies</p>
 <p>2) Abundância total</p>
 <p>3) Índice de diversidade de Shannon</p>
 <p>4) Índice de diversidade de Simpson</p>
 <p>5) Índice de equitabilidade de Pielou</p>
+<p>6) Riqueza de espécies estimada pelo índice Chao1</p>
 <p><strong>Clique <a href="https://buenoas.shinyapps.io/calculadora_biodiversidade">aqui</a> para acessar o aplicativo <em>Calculadora de Biodiversidade</em>.</strong></p>
 
 
